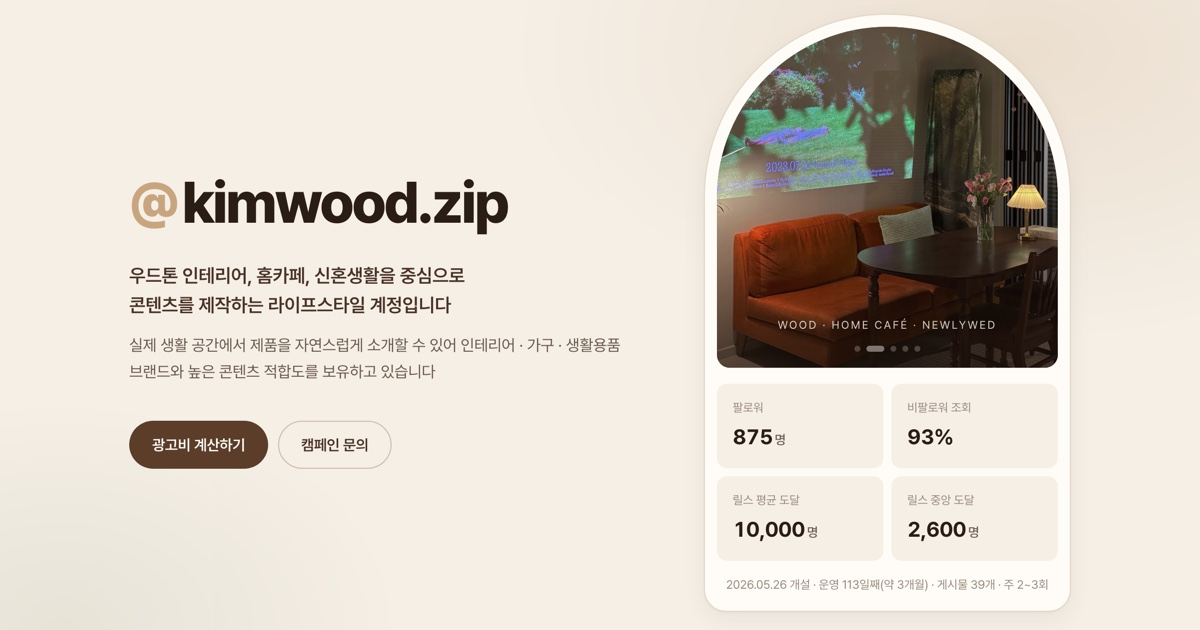
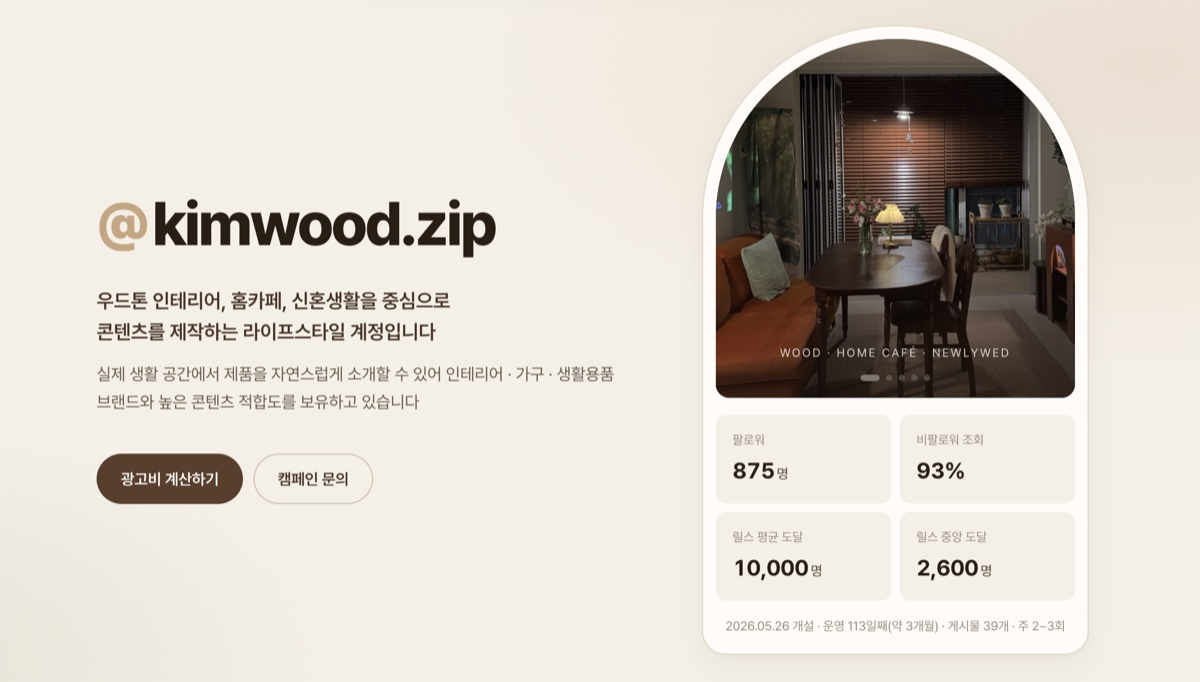
공유 썸네일 이미지 교체
- 직접 캡처한 첫 화면 이미지로 변경
- PNG를 JPEG로 변환하고 1200px로 축소 (1.2MB → 117KB)
- og:image:height를 실제 크기(682)에 맞춤

diff --git a/index.html b/index.html
@@ -17,7 +17,7 @@
     <meta property="og:url" content="https://ire4564.github.io/influencer-rate-card/" />
     <meta property="og:image" content="https://ire4564.github.io/influencer-rate-card/og.jpg" />
     <meta property="og:image:width" content="1200" />
-    <meta property="og:image:height" content="630" />
+    <meta property="og:image:height" content="682" />
     <meta
       property="og:image:alt"
       content="@kimwood.zip 광고 단가표 첫 화면 - 계정 소개와 팔로워 875명, 비팔로워 조회 93% 등 주요 지표"
